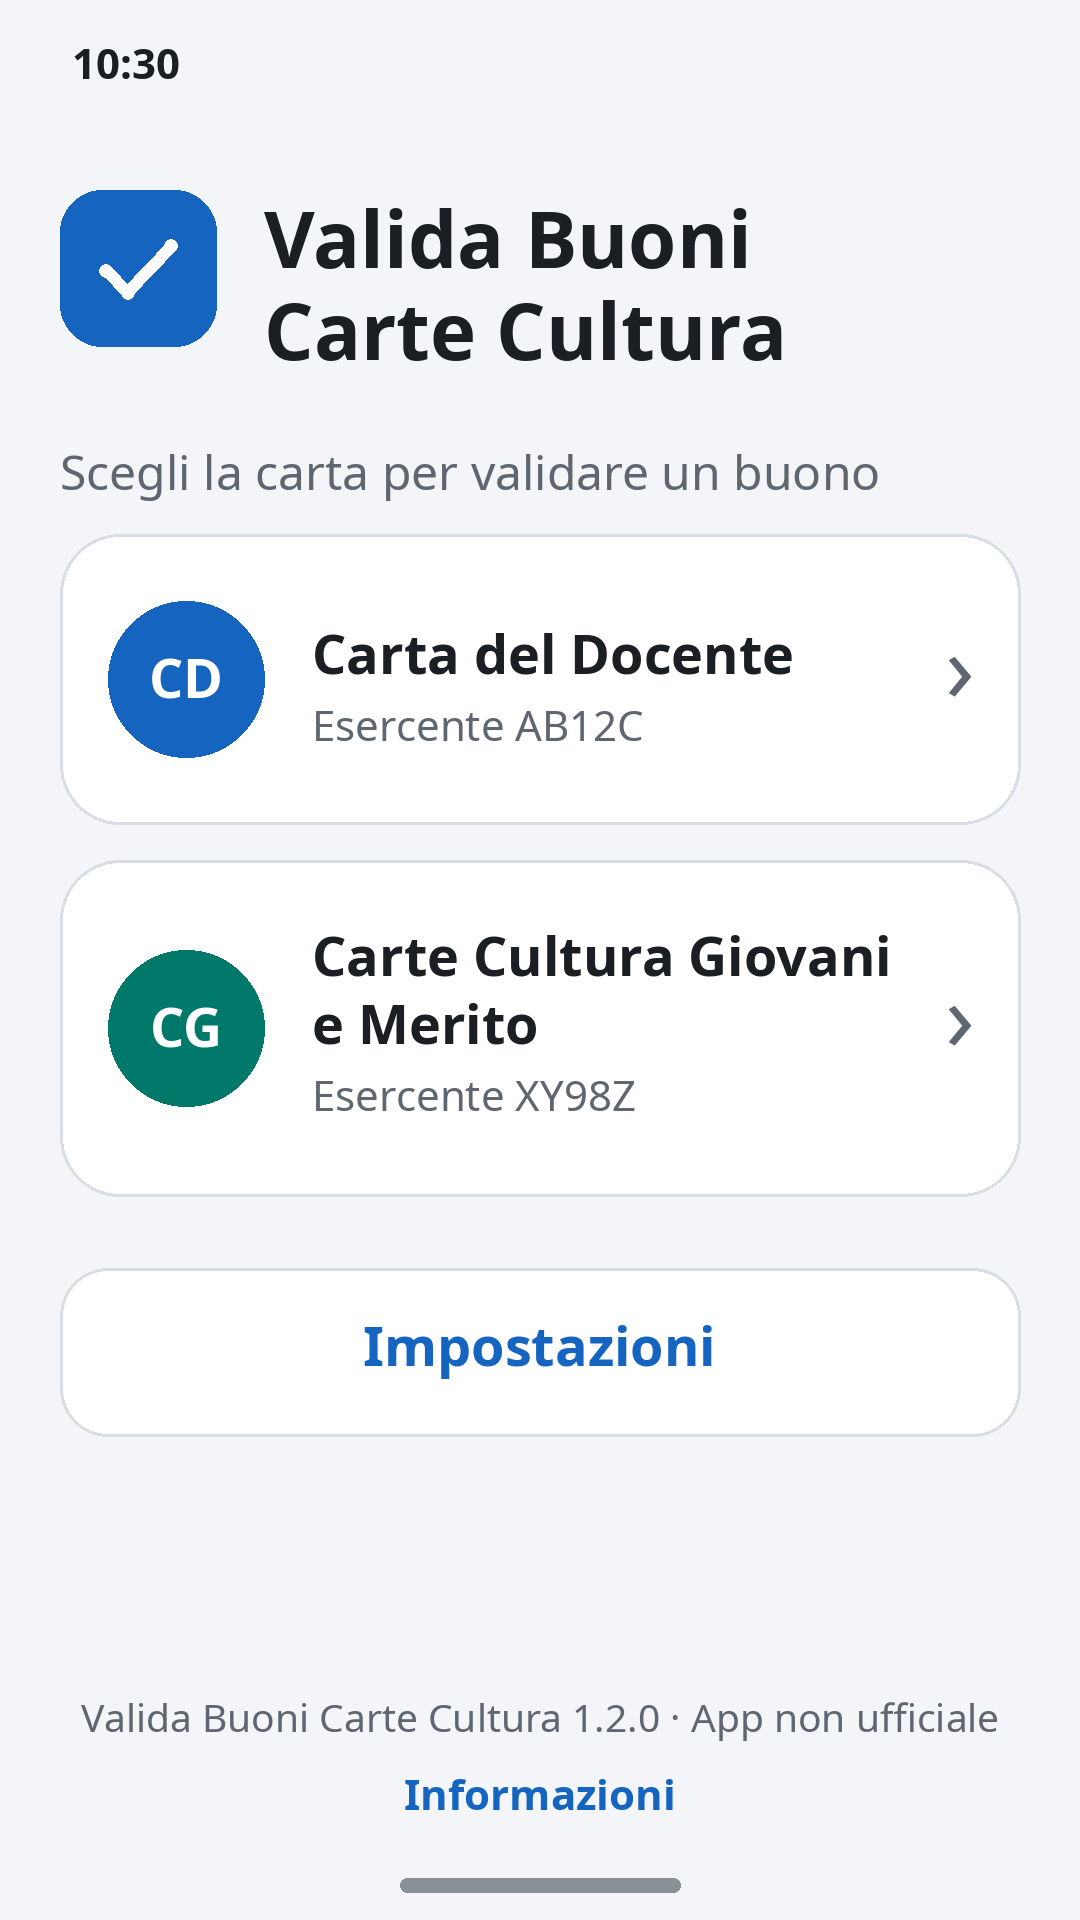
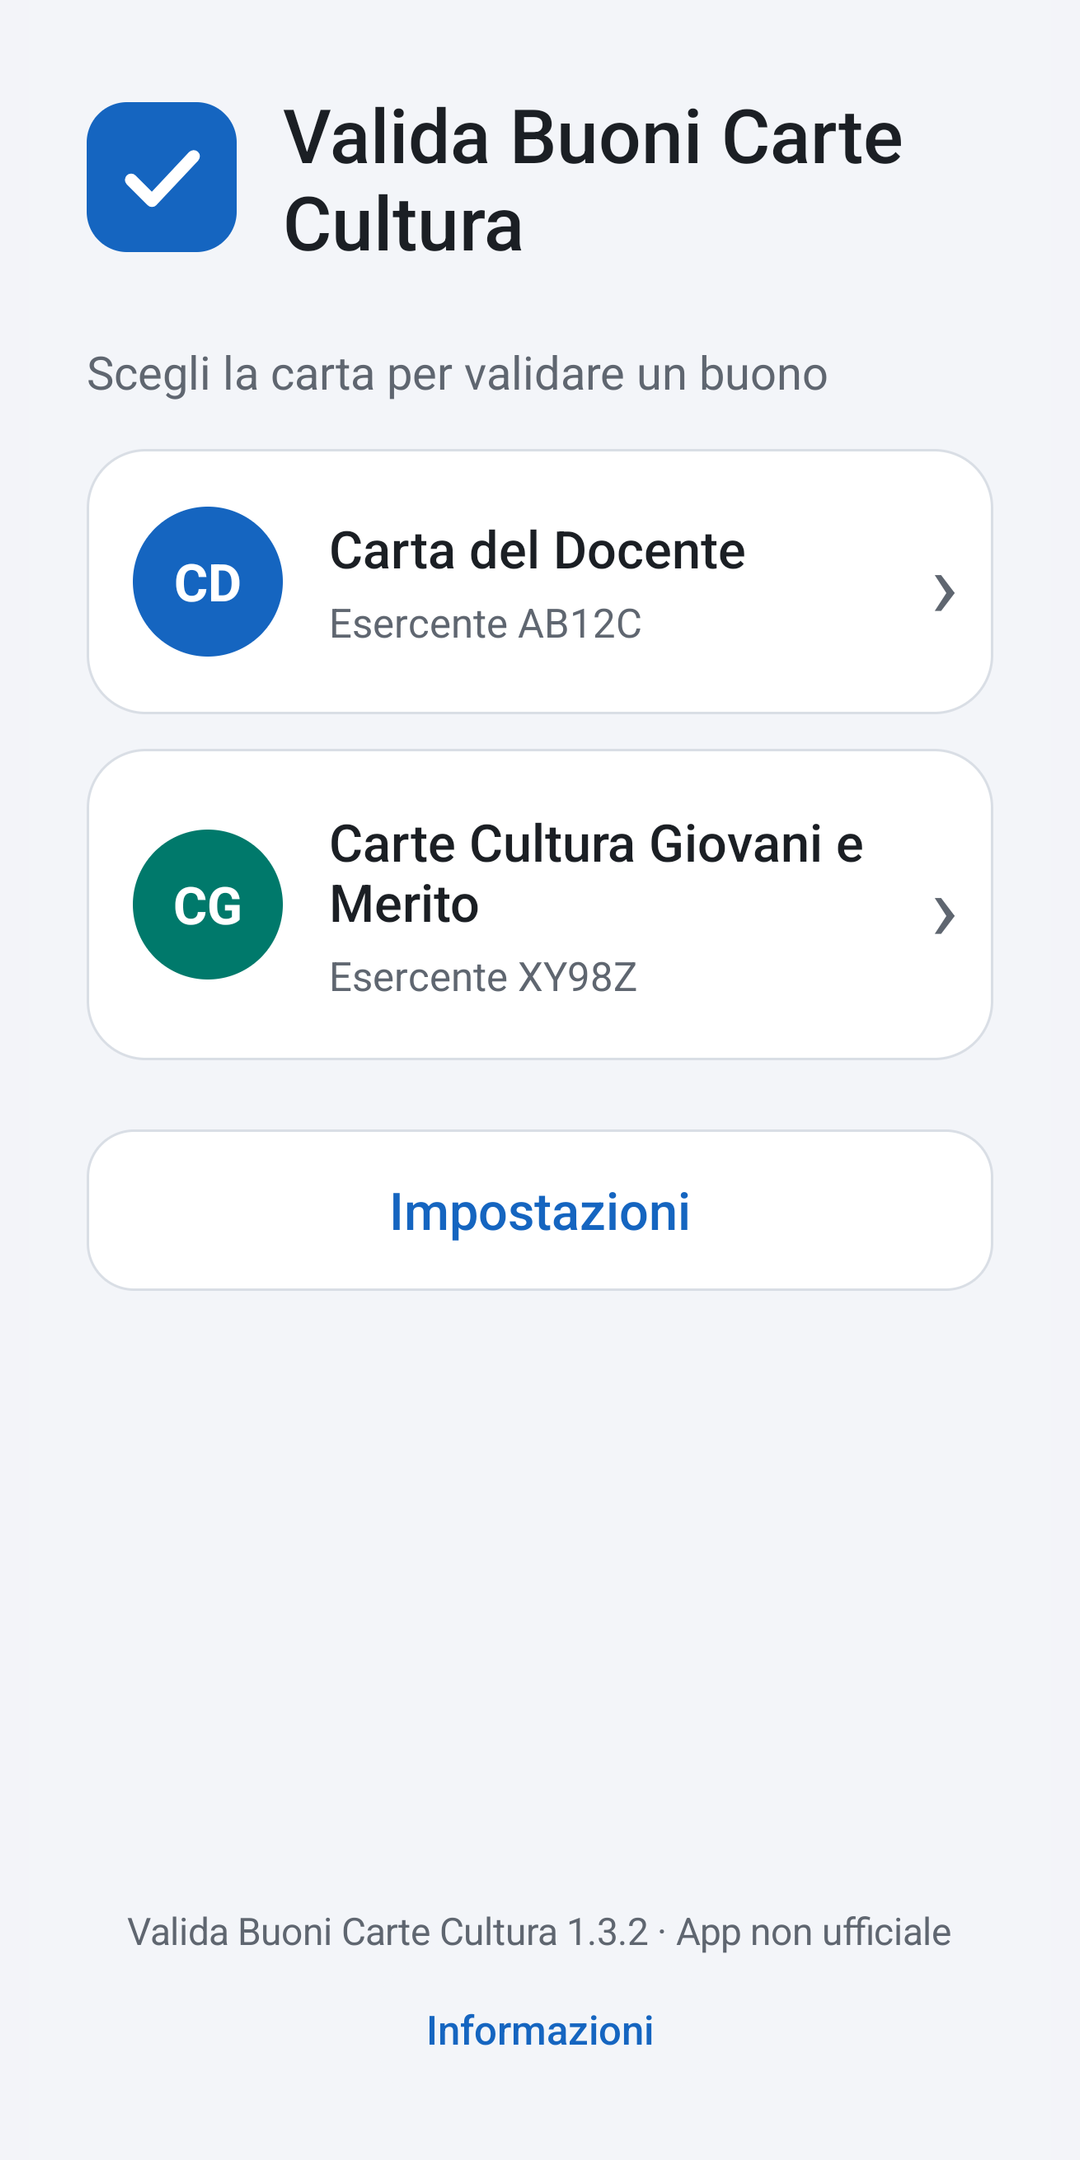
Rifà gli screenshot del Play Store con lo stesso formato

diff --git a/scripts/adatta-screenshot.py b/scripts/adatta-screenshot.py
@@ -1,0 +1,57 @@
+#!/usr/bin/env python3
+"""Adatta una cattura dello schermo al formato richiesto dal Play Store.
+
+Uso:
+    python3 scripts/adatta-screenshot.py ORIGINALE.png DESTINAZIONE.png [--copri-logo]
+
+Passi, uguali per ogni immagine:
+  1. toglie la barra di stato (può mostrare notifiche e icone personali);
+  2. con --copri-logo copre con una banda blu la parte alta del portale, dove
+     compaiono il nome del Ministero e il logo di Carta del Docente;
+  3. ridimensiona senza deformare a 1080x2160 (rapporto 2:1, il massimo accettato
+     dal Play Store) e aggiunge ai lati una cornice del colore di sfondo dell'app;
+  4. toglie la trasparenza e salva in PNG.
+
+Le misure sono in pixel di una cattura 1240x2772 (Oppo/OnePlus CPH2663). Con un
+altro telefono servono altre misure: controlla il risultato prima di usarlo.
+
+Richiede Pillow (pip install pillow, meglio in un ambiente virtuale).
+"""
+import sys
+
+from PIL import Image, ImageDraw
+
+BARRA_DI_STATO = 150            # pixel da togliere in alto
+LOGO_DA, LOGO_A = 360, 980      # fascia del portale da coprire (prima del taglio)
+SFONDO_APP = (243, 244, 249)    # colore di sfondo della Home dell'app
+LARGHEZZA, ALTEZZA = 1080, 2160
+
+
+def main(argv):
+    copri = "--copri-logo" in argv
+    percorsi = [a for a in argv[1:] if not a.startswith("--")]
+    if len(percorsi) != 2:
+        sys.exit(__doc__)
+    origine, destinazione = percorsi
+
+    img = Image.open(origine).convert("RGB")
+
+    if copri:
+        # Prende il blu dalla fascia "Valida Buono", subito sotto la zona da coprire
+        # (la zona arriva fino all'ombra che separa le due fasce).
+        blu = img.getpixel((20, LOGO_A + 10))
+        ImageDraw.Draw(img).rectangle([0, LOGO_DA, img.width, LOGO_A], fill=blu)
+
+    img = img.crop((0, BARRA_DI_STATO, img.width, img.height))
+
+    scala = ALTEZZA / img.height
+    img = img.resize((round(img.width * scala), ALTEZZA), Image.LANCZOS)
+
+    tela = Image.new("RGB", (LARGHEZZA, ALTEZZA), SFONDO_APP)
+    tela.paste(img, ((LARGHEZZA - img.width) // 2, 0))
+    tela.save(destinazione, "PNG")
+    print(f"{destinazione}: {tela.width}x{tela.height}")
+
+
+if __name__ == "__main__":
+    main(sys.argv)
